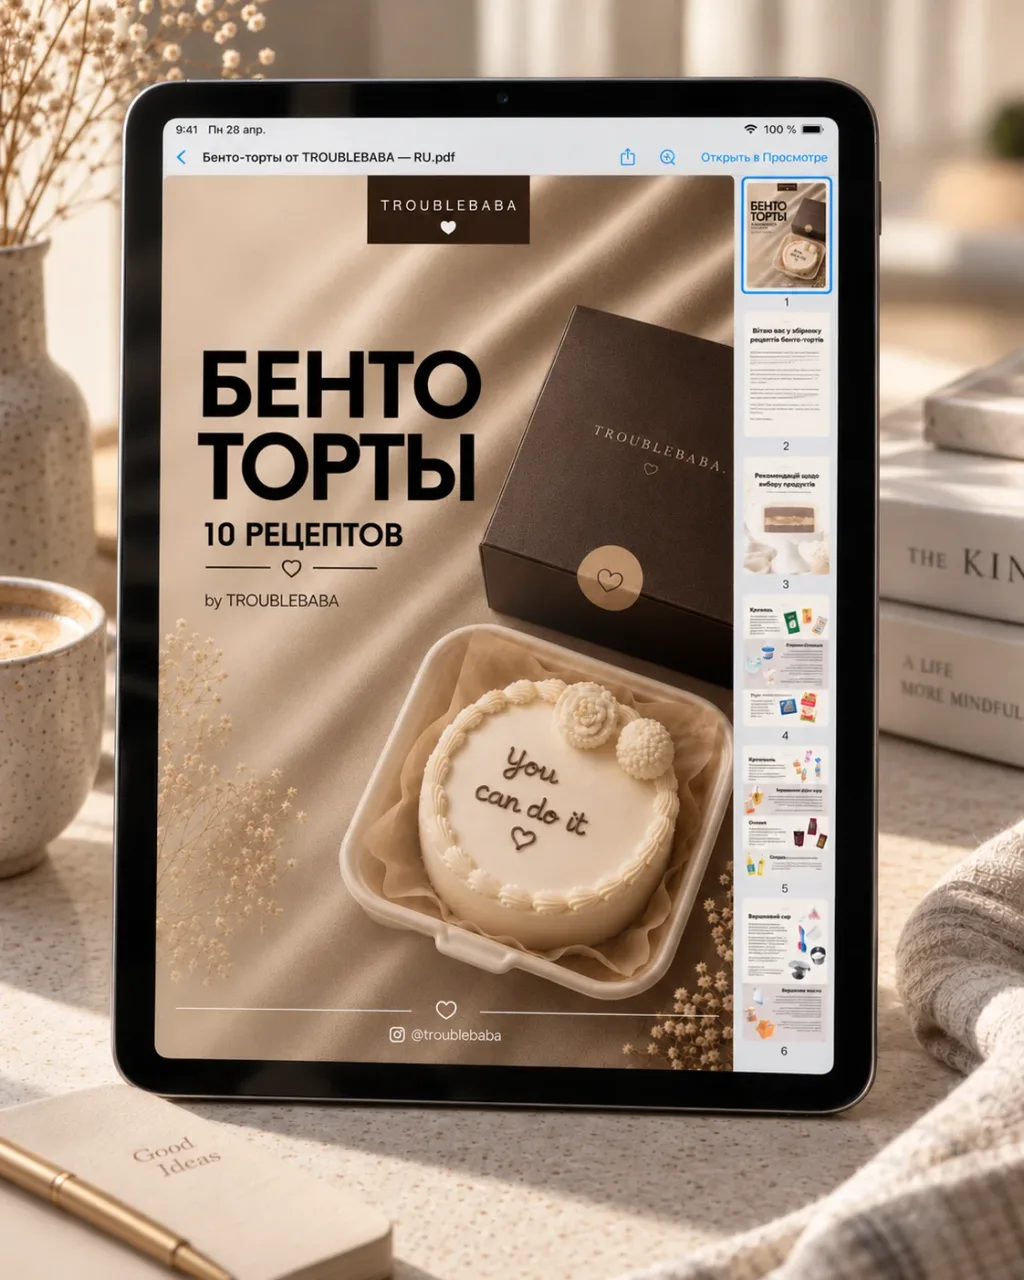
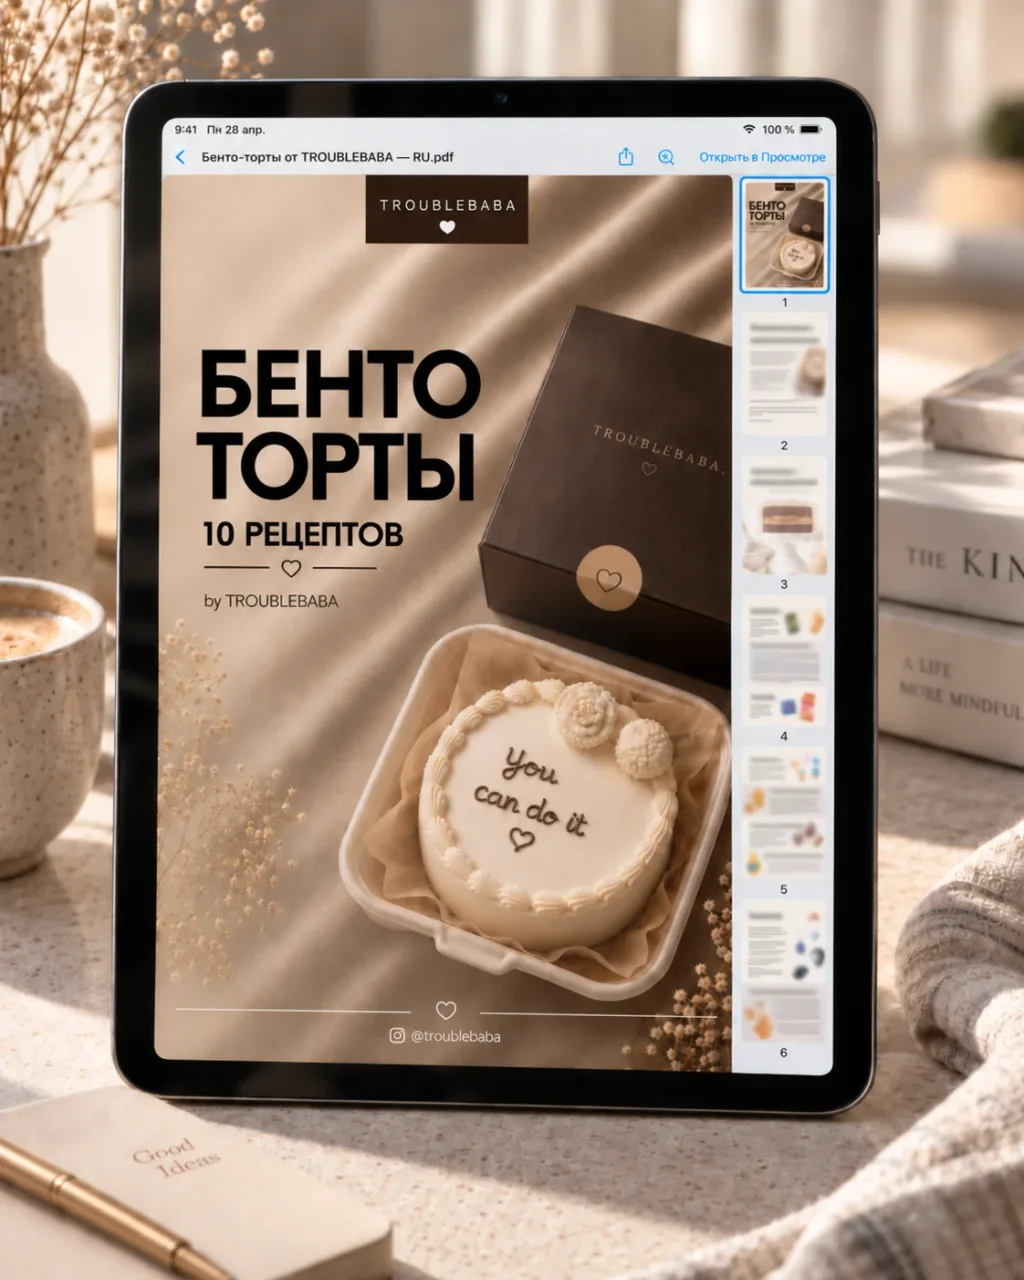
Alt для страниц в лайтбоксе + перевыпуск RU-мокапа
Аудит имён картинок: мусорных имён (ChatGPT/IMG_/screenshot/untitled)
в репозитории нет, картинок без атрибута alt на 294 страницах нет.

Нашёлся один настоящий дефект: show() в лайтбоксе подменял src, но не
alt. В разметке у картинки alt="" — верно для прозрачной заглушки 1×1,
но как только на её место встаёт страница книги, картинка становится
содержанием, и пустой alt значит, что скринридер не объявляет ничего.
Теперь alt меняется вместе с src, шаблон preview_page_alt добавлен на
все 9 языков.

RU-мокап перевыпущен: в панели миниатюр был украинский текст.

diff --git a/src/i18n/translations.js b/src/i18n/translations.js
@@ -228,6 +228,7 @@ testi_more:  'Показати всі відгуки',
     preview_note: 'сторінок у збірнику — від вибору продуктів до пакування готового торта.',
     preview_contents: ['10 повних рецептів із точними грамажами й порядком збірки', 'Рекомендації щодо вибору продуктів: який крохмаль, сир, масло, вершки, борошно', 'Таблиця перерахунку рецепта на 11 діаметрів — від 10 до 30 см', 'Список інвентарю та витратних матеріалів для старту', 'Пакування для клієнта і що написати в інструкції', 'Два базові креми для вирівнювання з розбором нюансів'],
     preview_cta: 'Погортати сторінки',
+    preview_page_alt: 'Сторінка {n} з {total} — превʼю збірника Bento Cake',
     bonus_tg_title:    'Бонус після оплати',
     bonus_tg_body:     'Доступ до закритого Telegram-чату покупців TROUBLEBABA — питання авторці, фото твоїх робіт, оновлення збірника.',
     price_items: [
@@ -640,6 +641,7 @@ testi_more:  'Показать все отзывы',
     preview_note: 'страниц в сборнике — от выбора продуктов до упаковки готового торта.',
     preview_contents: ['10 полных рецептов с точными граммовками и порядком сборки', 'Рекомендации по выбору продуктов: какой крахмал, сыр, масло, сливки, мука', 'Таблица пересчёта рецепта на 11 диаметров — от 10 до 30 см', 'Список инвентаря и расходников для старта', 'Упаковка для клиента и что написать в инструкции', 'Два базовых крема для выравнивания с разбором нюансов'],
     preview_cta: 'Полистать страницы',
+    preview_page_alt: 'Страница {n} из {total} — превью сборника Bento Cake',
     bonus_tg_title:    'Бонус после оплаты',
     bonus_tg_body:     'Доступ в закрытый Telegram-чат покупателей TROUBLEBABA — вопросы автору, фото твоих работ, обновления сборника.',
     price_items: [
@@ -1034,6 +1036,7 @@ testi_more:  'Pokaż wszystkie opinie',
     preview_note: 'stron w zbiorze — od wyboru produktów po zapakowanie gotowego tortu.',
     preview_contents: ['10 pełnych przepisów z dokładnymi gramaturami i kolejnością składania', 'Wskazówki dotyczące wyboru produktów: skrobia, serek, masło, śmietanka, mąka', 'Tabela przeliczeń przepisu na 11 średnic — od 10 do 30 cm', 'Lista sprzętu i materiałów na start', 'Pakowanie dla klienta i co napisać w instrukcji', 'Dwa bazowe kremy do wyrównywania z omówieniem niuansów'],
     preview_cta: 'Przejrzyj strony',
+    preview_page_alt: 'Strona {n} z {total} — podgląd zbioru Bento Cake',
     bonus_tg_title:    'Bonus po zakupie',
     bonus_tg_body:     'Dostęp do zamkniętego czatu Telegram dla kupujących TROUBLEBABA — pytania do autorki, zdjęcia twoich prac, aktualizacje zbioru.',
     price_items: [
@@ -1427,6 +1430,7 @@ testi_more:  'Show all reviews',
     preview_note: 'pages in the collection — from choosing your products to boxing the finished cake.',
     preview_contents: ['10 full recipes with exact gram weights and assembly order', 'Product guidance: which starch, cheese, butter, cream and flour to buy', 'Conversion table for 11 tin diameters — from 10 to 30 cm', 'Equipment and consumables list to get started', 'Packaging for the client and what to put on the care note', 'Two base frosting creams with the details that matter'],
     preview_cta: 'Flip through the pages',
+    preview_page_alt: 'Page {n} of {total} — Bento Cake collection preview',
     bonus_tg_title:    'Bonus after purchase',
     bonus_tg_body:     'Access to the closed TROUBLEBABA buyers-only Telegram chat — ask the author, share your bakes, get collection updates.',
     price_items: [
@@ -1819,6 +1823,7 @@ testi_more:  'Ver todas las opiniones',
     preview_note: 'páginas en la colección — desde la elección de productos hasta el empaquetado del pastel.',
     preview_contents: ['10 recetas completas con gramajes exactos y orden de montaje', 'Guía de productos: qué almidón, queso, mantequilla, nata y harina comprar', 'Tabla de conversión para 11 diámetros — de 10 a 30 cm', 'Lista de utensilios y consumibles para empezar', 'Empaquetado para el cliente y qué escribir en la nota', 'Dos cremas base para el alisado con todos los detalles'],
     preview_cta: 'Pasar las páginas',
+    preview_page_alt: 'Página {n} de {total} — vista previa de la colección Bento Cake',
     bonus_tg_title:    'Bono después de la compra',
     bonus_tg_body:     'Acceso al chat privado de Telegram para compradores TROUBLEBABA — preguntas a la autora, fotos de tus tartas, actualizaciones del set.',
     price_items: [
@@ -2211,6 +2216,7 @@ testi_more:  'Alle Bewertungen anzeigen',
     preview_note: 'Seiten in der Sammlung — von der Produktauswahl bis zum Verpacken der fertigen Torte.',
     preview_contents: ['10 vollständige Rezepte mit genauen Grammangaben und Aufbaureihenfolge', 'Produktempfehlungen: welche Stärke, Frischkäse, Butter, Sahne und Mehl', 'Umrechnungstabelle für 11 Durchmesser — von 10 bis 30 cm', 'Ausstattungs- und Verbrauchsmaterialliste für den Start', 'Verpackung für den Kunden und was auf den Hinweiszettel gehört', 'Zwei Basiscremes zum Einstreichen mit allen Feinheiten'],
     preview_cta: 'Seiten durchblättern',
+    preview_page_alt: 'Seite {n} von {total} — Vorschau der Bento-Cake-Sammlung',
     bonus_tg_title:    'Bonus nach dem Kauf',
     bonus_tg_body:     'Zugang zum geschlossenen Telegram-Chat für TROUBLEBABA-Käuferinnen — Fragen an die Autorin, Fotos deiner Torten, Updates zur Sammlung.',
     price_items: [
@@ -2603,6 +2609,7 @@ testi_more:  'Voir tous les avis',
     preview_note: 'pages dans le recueil — du choix des produits à l\'emballage du gâteau fini.',
     preview_contents: ['10 recettes complètes avec grammages précis et ordre de montage', 'Choix des produits : quelle fécule, quel fromage, beurre, crème et farine', 'Tableau de conversion pour 11 diamètres — de 10 à 30 cm', 'Liste du matériel et des consommables pour démarrer', 'Emballage pour le client et quoi écrire sur la notice', 'Deux crèmes de base pour le masquage, en détail'],
     preview_cta: 'Feuilleter les pages',
+    preview_page_alt: 'Page {n} sur {total} — aperçu du recueil Bento Cake',
     bonus_tg_title:    'Bonus après achat',
     bonus_tg_body:     'Accès au chat Telegram privé des acheteurs TROUBLEBABA — questions à l\'autrice, photos de tes gâteaux, mises à jour du recueil.',
     price_items: [
@@ -2995,6 +3002,7 @@ testi_more:  'Mostra tutte le recensioni',
     preview_note: 'pagine nella raccolta — dalla scelta dei prodotti al confezionamento della torta finita.',
     preview_contents: ['10 ricette complete con grammature esatte e ordine di montaggio', 'Guida ai prodotti: quale amido, formaggio, burro, panna e farina', 'Tabella di conversione per 11 diametri — da 10 a 30 cm', 'Elenco di attrezzatura e materiali per iniziare', 'Confezionamento per il cliente e cosa scrivere nel biglietto', 'Due creme base per la copertura, spiegate nei dettagli'],
     preview_cta: 'Sfoglia le pagine',
+    preview_page_alt: 'Pagina {n} di {total} — anteprima della raccolta Bento Cake',
     bonus_tg_title:    'Bonus dopo l\'acquisto',
     bonus_tg_body:     'Accesso alla chat Telegram privata per chi acquista TROUBLEBABA — domande all\'autrice, foto dei tuoi lavori, aggiornamenti della raccolta.',
     price_items: [
@@ -3387,6 +3395,7 @@ testi_more:  'Ver todas as avaliações',
     preview_note: 'páginas na coleção — da escolha dos produtos à embalagem do bolo pronto.',
     preview_contents: ['10 receitas completas com gramagens exatas e ordem de montagem', 'Guia de produtos: qual amido, queijo, manteiga, natas e farinha', 'Tabela de conversão para 11 diâmetros — de 10 a 30 cm', 'Lista de utensílios e consumíveis para começar', 'Embalagem para o cliente e o que escrever na nota', 'Dois cremes base para o acabamento, em detalhe'],
     preview_cta: 'Folhear as páginas',
+    preview_page_alt: 'Página {n} de {total} — pré-visualização da coleção Bento Cake',
     bonus_tg_title:    'Bônus após a compra',
     bonus_tg_body:     'Acesso ao chat privado no Telegram para compradores TROUBLEBABA — perguntas à autora, fotos dos seus bolos, atualizações da coleção.',
     price_items: [
